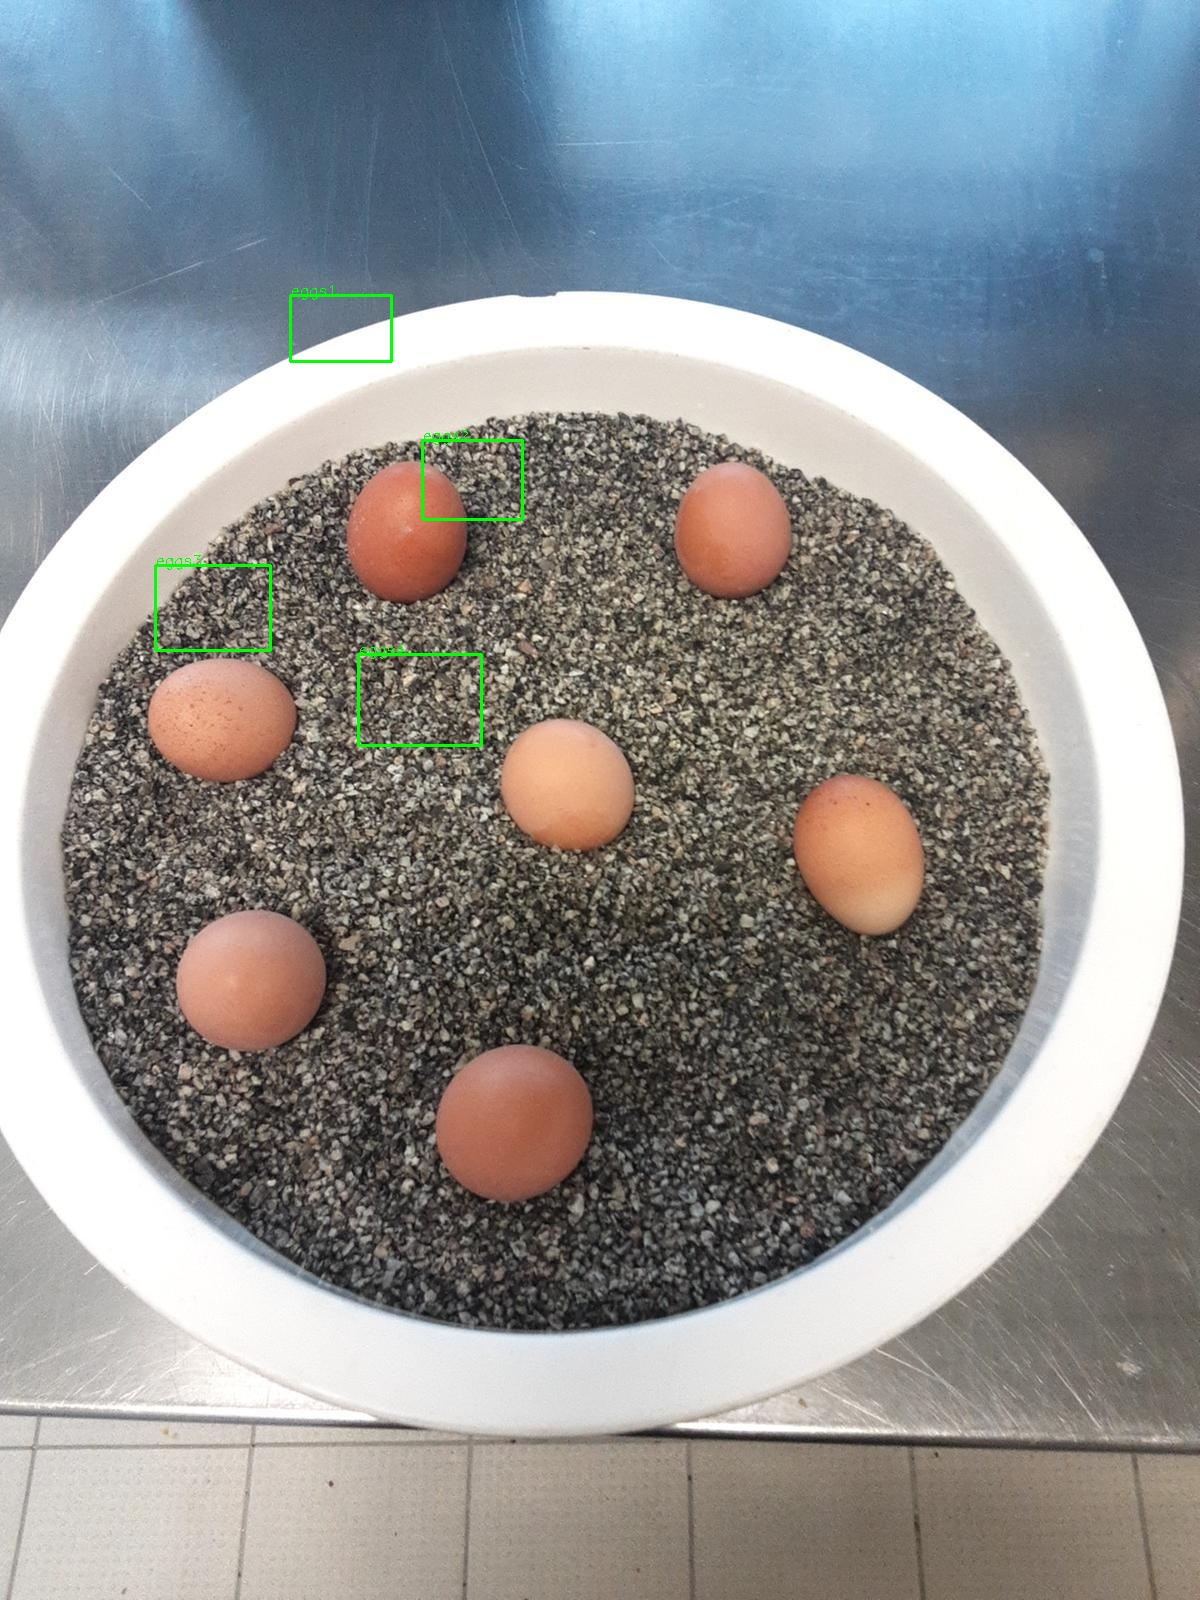
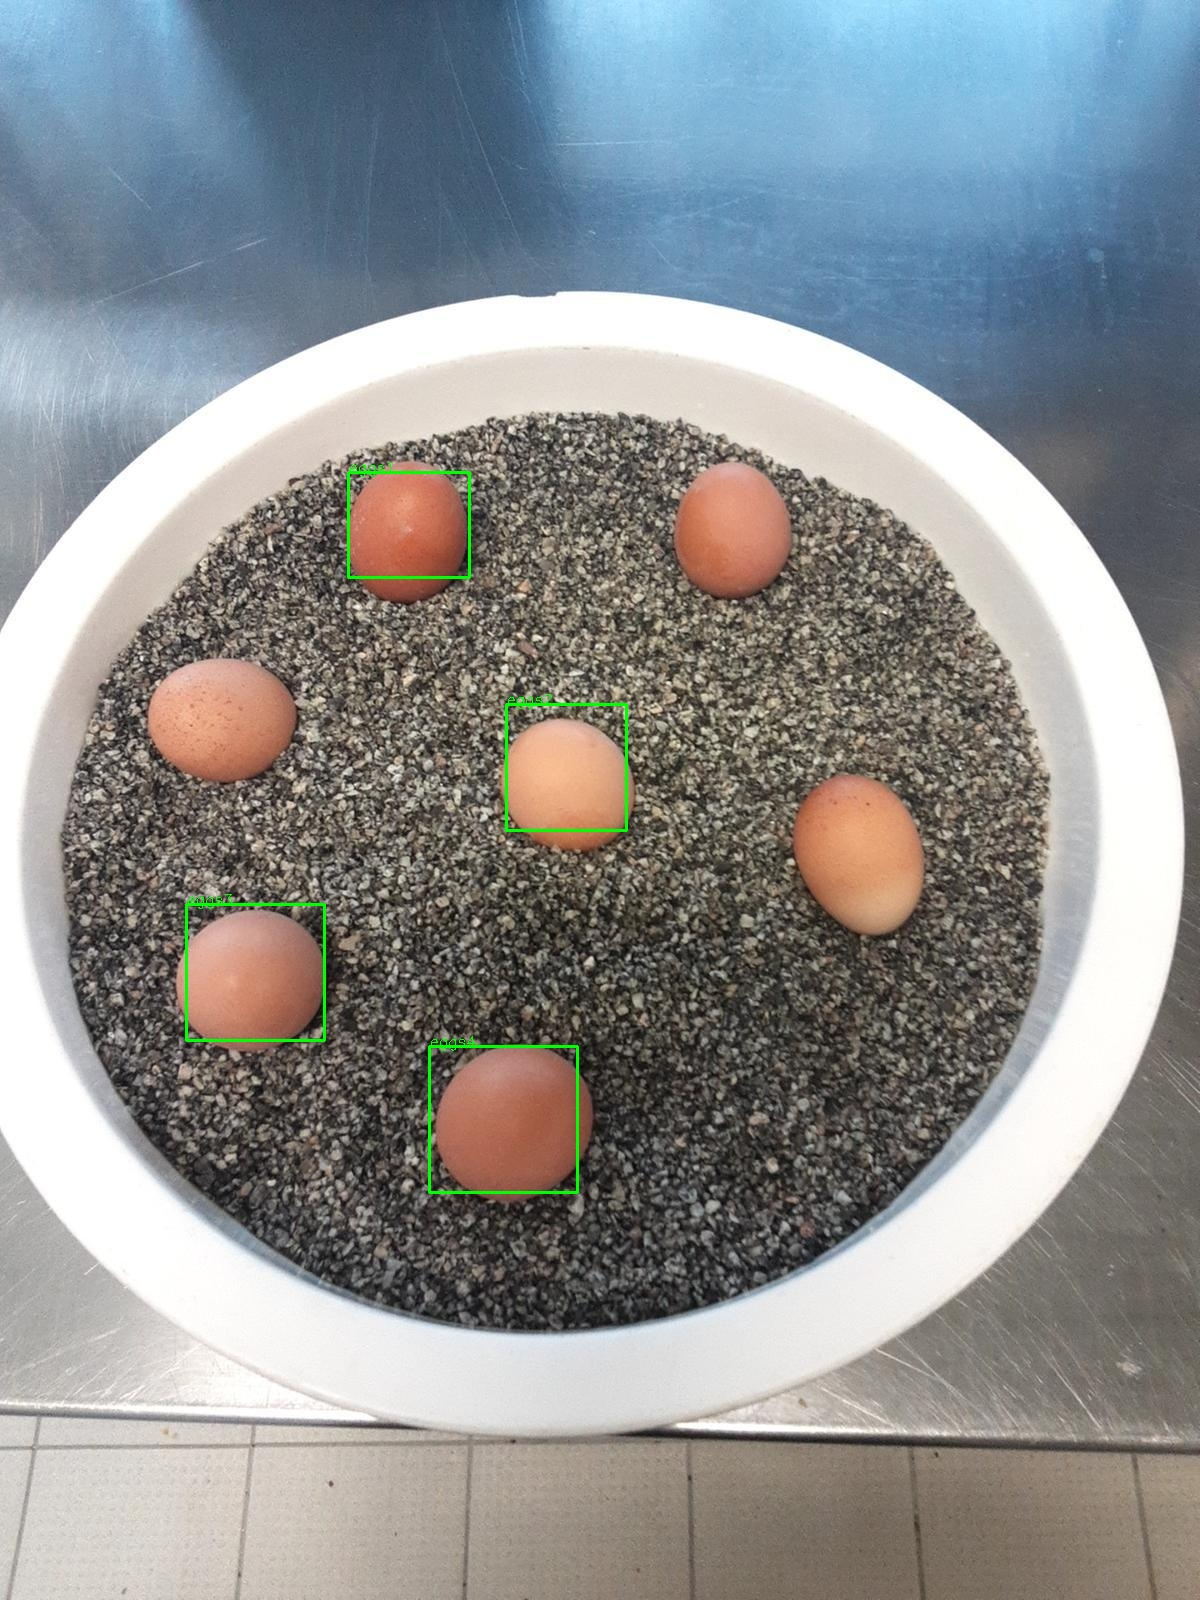
updated version.py to 1.0.132

diff --git a/mb_rag/utils/bounding_box.py b/mb_rag/utils/bounding_box.py
@@ -157,8 +157,8 @@ class BoundingBoxProcessor:
                     raise ValueError(f"Invalid bounding box format for key {key}. Expected [ymin, xmin, ymax, xmax]")
                 
                 if google_bb:
-                    value = [int(value[0] * img.shape[0] * 0.001), int(value[1] * img.shape[1]* 0.001),
-                              int(value[2] * img.shape[0] * 0.001), int(value[3] * img.shape[1] * 0.001)]
+                    value = [int(value[0] * img.shape[1] * 0.001), int(value[1] * img.shape[0]* 0.001),
+                              int(value[2] * img.shape[1] * 0.001), int(value[3] * img.shape[0] * 0.001)]
 
                 self._cv2.rectangle(
                     img=img,

diff --git a/mb_rag/version.py b/mb_rag/version.py
@@ -1,5 +1,5 @@
 MAJOR_VERSION = 1
 MINOR_VERSION = 0
-PATCH_VERSION = 131
+PATCH_VERSION = 132
 version = '{}.{}.{}'.format(MAJOR_VERSION, MINOR_VERSION, PATCH_VERSION)
 __all__  = ['MAJOR_VERSION', 'MINOR_VERSION', 'PATCH_VERSION', 'version']
